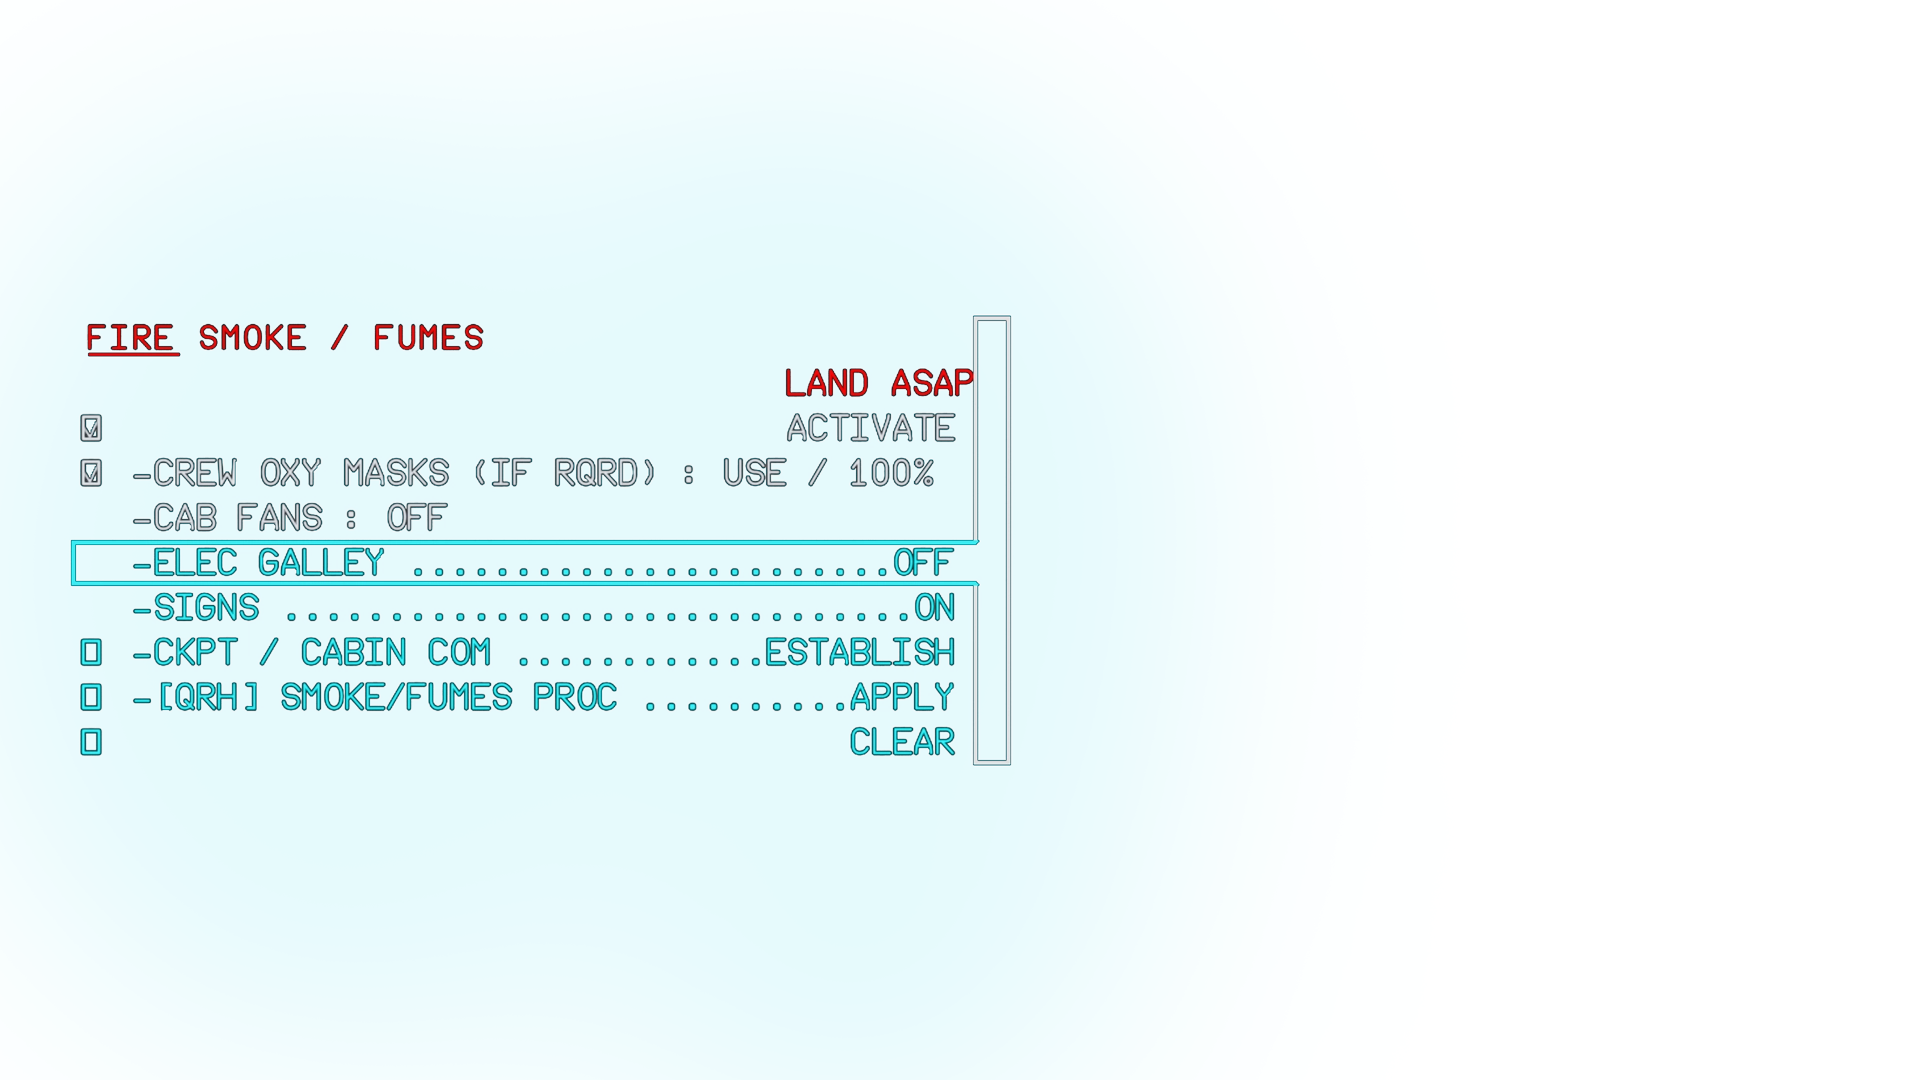
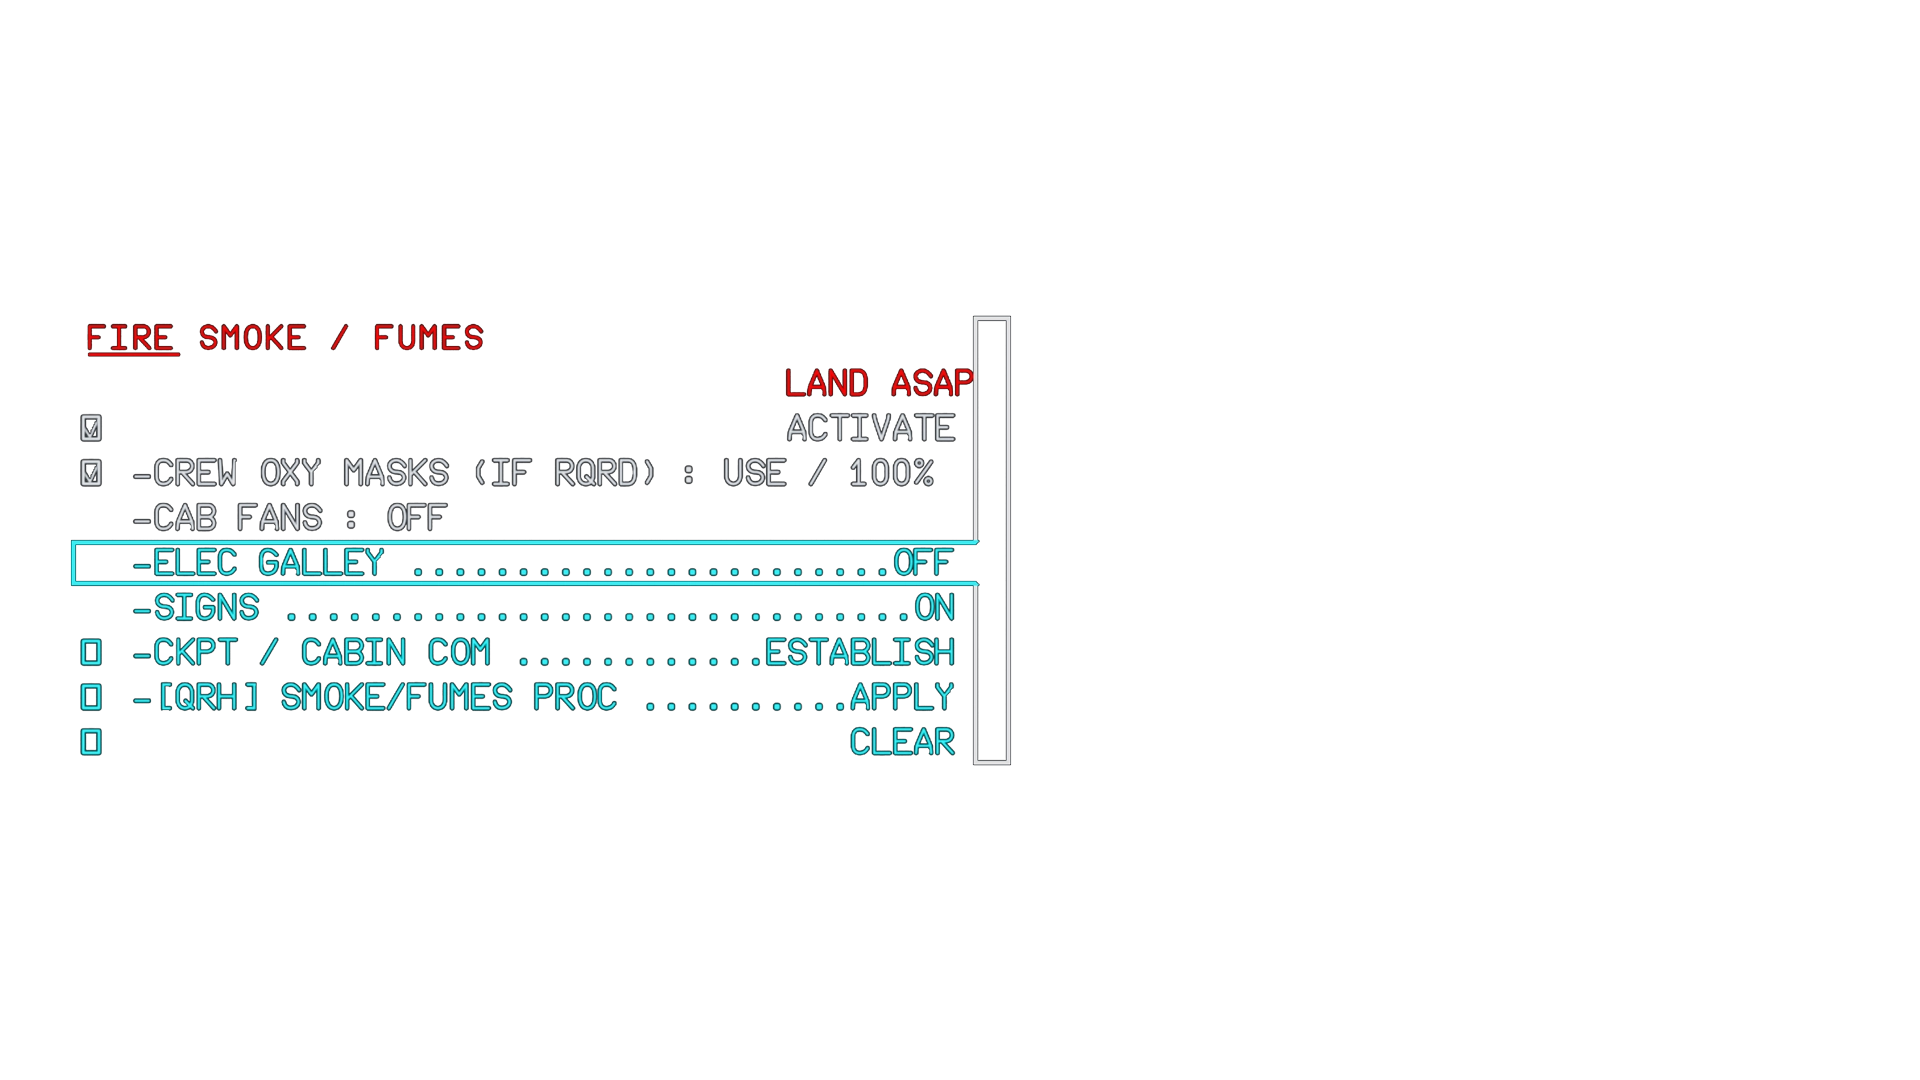
WatermarkTile gradient rework
Replaced image-baked gradients with a CSS radial gradient on
WatermarkTile, controlled by a new `gradient` prop.

The original transparent WebP images contained semi-transparent
coloured gradients that rendered inconsistently in Firefox. The
gradient would become noticeably more prominent when the carousel
tile transitioned from inactive to active. This was caused by
Firefox's compositor handling the layering of separate DOM elements
differently when the tile's width changed.

The fix merges the cyan glow radial gradient into the same CSS
`background` declaration as the dark linear gradient, eliminating
the extra compositing layer that Firefox was rendering incorrectly.

Changed region(s): [[0.0312, 0.1833, 0.5625, 0.9167]]

diff --git a/src/pages/projects/a380x.tsx b/src/pages/projects/a380x.tsx
@@ -64,6 +64,7 @@ const A380X: NextPage<A380XProps> = ({ galleryImages, blurDataURLs }) => (
                 </div>
                 <FeatureCarousel theme="light">
                     <WatermarkTile
+                        gradient
                         title="King of the Skies"
                         imageSrc="/img/a380x/feature-a380x-takeoff.webp"
                         blurDataURL={blurDataURLs['/img/a380x/feature-a380x-takeoff.webp']}
@@ -96,6 +97,7 @@ const A380X: NextPage<A380XProps> = ({ galleryImages, blurDataURLs }) => (
                         }
                     />
                     <WatermarkTile
+                        gradient
                         title="Electronic Centralised Aircraft Monitor (ECAM)"
                         watermarkText="ECAM"
                         imageSrc="/img/a380x/feature-ecam.webp"
@@ -118,6 +120,7 @@ const A380X: NextPage<A380XProps> = ({ galleryImages, blurDataURLs }) => (
                         }
                     />
                     <WatermarkTile
+                        gradient
                         title="Flight Warning System (FWS) & Emergency Procedures"
                         watermarkText="FWS & EMER PROC "
                         imageSrc="/img/a380x/feature-fws-emer-proc.webp"
@@ -139,6 +142,7 @@ const A380X: NextPage<A380XProps> = ({ galleryImages, blurDataURLs }) => (
                         }
                     />
                     <WatermarkTile
+                        gradient
                         title="Fuel, Hydraulics & Electrical Systems"
                         imageSrc="/img/a380x/feature-systems.webp"
                         blurDataURL={blurDataURLs['/img/a380x/feature-systems.webp']}
@@ -161,6 +165,7 @@ const A380X: NextPage<A380XProps> = ({ galleryImages, blurDataURLs }) => (
                         }
                     />
                     <WatermarkTile
+                        gradient
                         title="Custom Soundscape"
                         imageSrc="/img/a380x/feature-sounds.webp"
                         blurDataURL={blurDataURLs['/img/a380x/feature-sounds.webp']}
@@ -182,6 +187,7 @@ const A380X: NextPage<A380XProps> = ({ galleryImages, blurDataURLs }) => (
                         }
                     />
                     <WatermarkTile
+                        gradient
                         title="Vertical Display (VD) and Terrain Radar"
                         description={
                             'From climb to managed descent, a precise vertical profile respecting altitude and speed constraints at each waypoint is computed by the FMS. '

diff --git a/src/components/Projects/Carousel/WatermarkTile.tsx b/src/components/Projects/Carousel/WatermarkTile.tsx
@@ -12,6 +12,7 @@ type WatermarkTileProps = {
     isActive?: boolean;
     priority?: boolean;
     blurDataURL?: string;
+    gradient?: boolean;
 };
 
 const watermarkRows = Array.from({ length: 12 });
@@ -32,6 +33,7 @@ const WatermarkTile = ({
     isActive = false,
     priority = false,
     blurDataURL,
+    gradient = false,
 }: WatermarkTileProps) => (
     <div
         className={twMerge(
@@ -39,8 +41,15 @@ const WatermarkTile = ({
             className,
         )}
     >
-        {/* Background */}
-        <div className="absolute inset-0" style={{ background: 'linear-gradient(to top, #0f1620, #172844)' }}>
+        {/* Background + cyan glow */}
+        <div
+            className="absolute inset-0"
+            style={{
+                background: gradient
+                    ? 'radial-gradient(20rem 12rem at 12rem 12rem, rgba(2, 219, 254, 0.18) 0%, transparent 100%), linear-gradient(to top, #0f1620, #172844)'
+                    : 'linear-gradient(to top, #0f1620, #172844)',
+            }}
+        >
             <div
                 className="absolute inset-0 opacity-[0.03] pointer-events-none select-none"
                 style={{ transform: 'rotate(-45deg) scale(4)' }}
